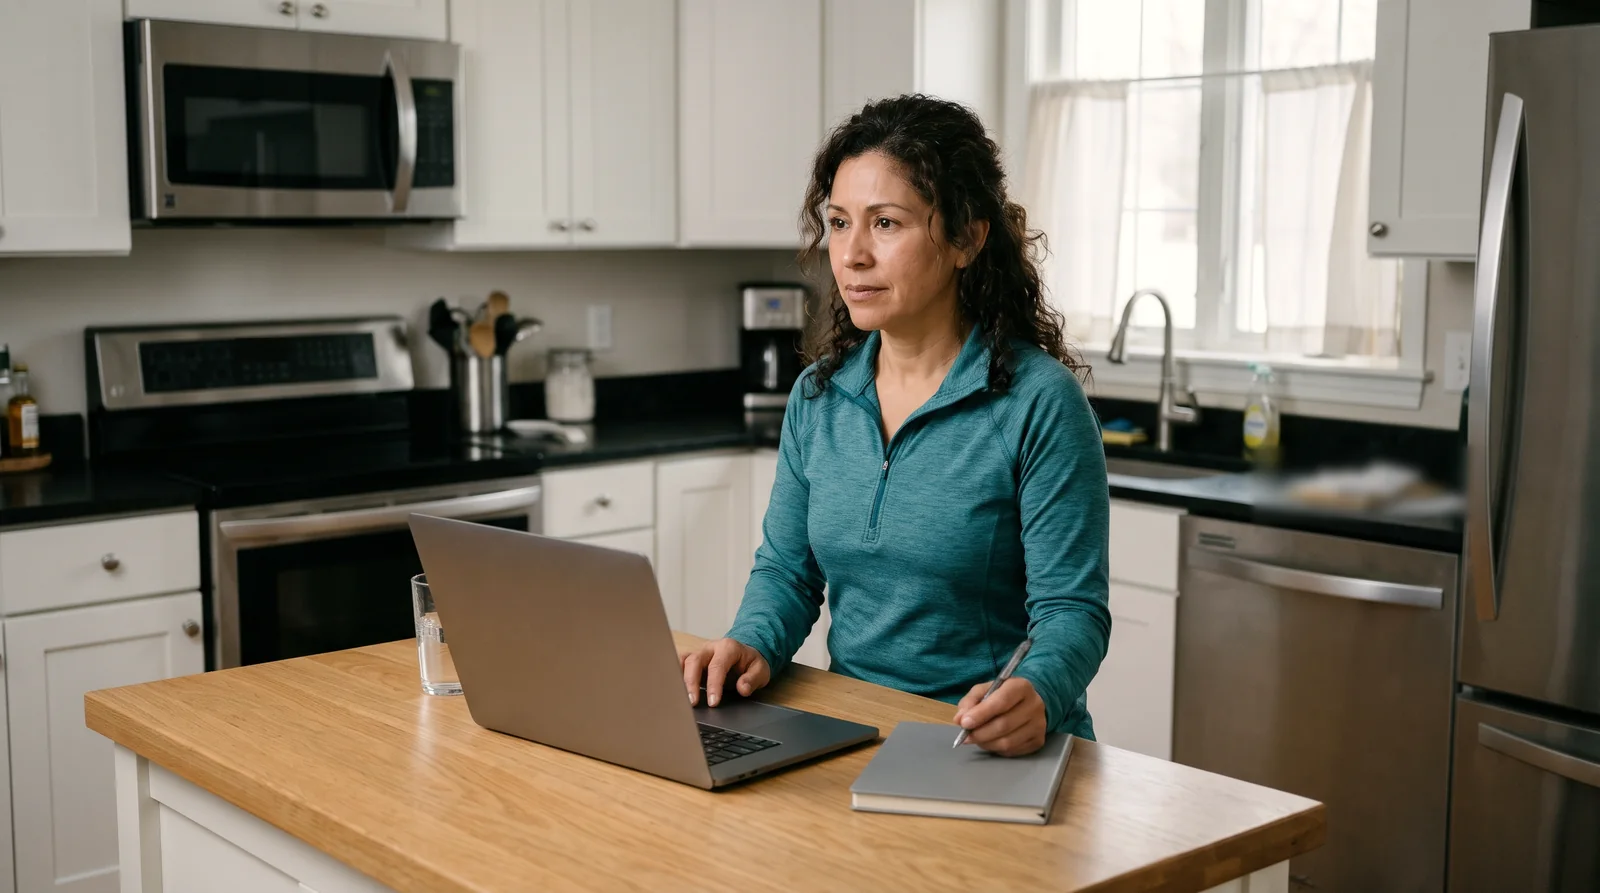
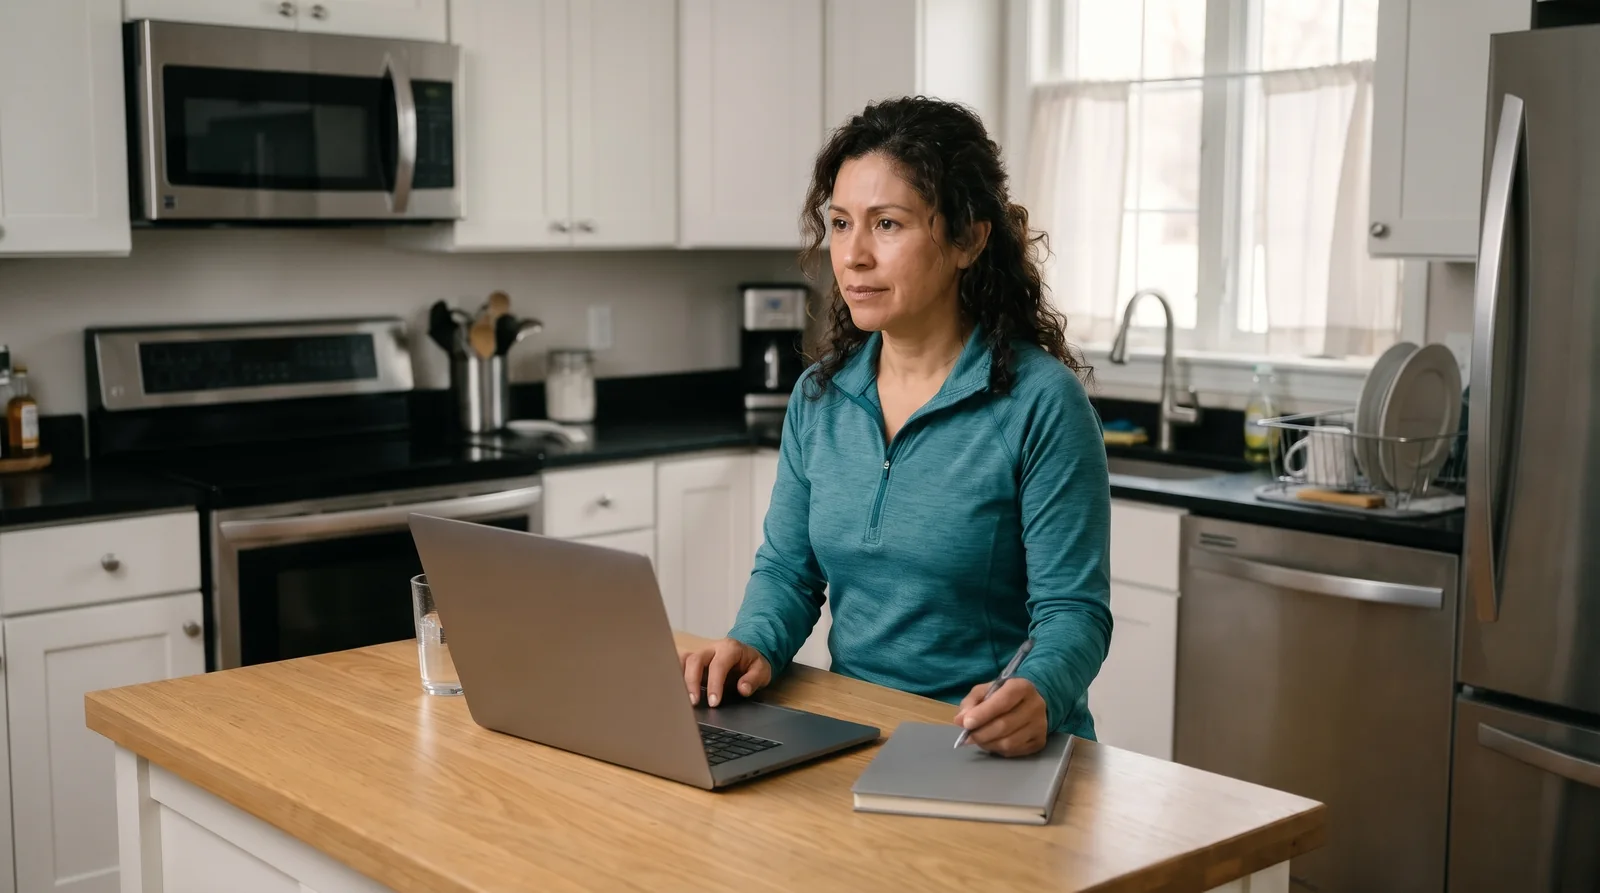
photos: is-beachbody-bodi-going-out-of-business recheck fixes

diff --git a/blog-pipeline/photos-completed/is-beachbody-bodi-going-out-of-business.md b/blog-pipeline/photos-completed/is-beachbody-bodi-going-out-of-business.md
@@ -36,3 +36,6 @@ note: "Photo Claude 2026-11-19: 5 frames, one white kitchen with a butcher block
 - image_url: https://scan.ismyhometoxic.com/blog-images/isbeachbody-freedom-v1.webp
 - placement: final image before the closing CTA
 - completed: 2026-11-19T12:27:00
+
+## Recheck (Photo Claude) 2026-11-20
+Recheck: Appliance displays dark and counter tidy; villain cooled to be the coldest frame.
